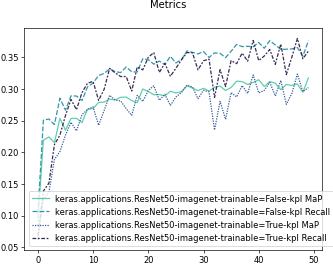
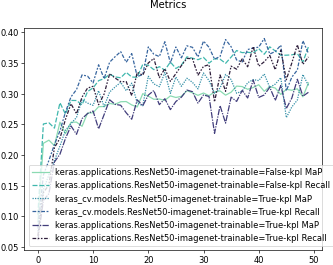
Artifacts/scripts/etc

diff --git a/tasks/pascal_voc2007/scripts/aggregate_results.py b/tasks/pascal_voc2007/scripts/aggregate_results.py
@@ -7,14 +7,13 @@ results = ml_experiments.Result.load_collection("artifacts/")
 
 all_dfs = []
 for result in results:
-    metrics = result.get("metrics")
     history = result.get("history").metrics
     mAP = np.array(history["val_AP"]).max()
     AR = np.array(history["val_ARmax100"]).max()
 
-    cols = [result.name] + [mAP, AR] + list(metrics.metrics.values())
+    cols = [result.name] + [mAP, AR]
     cols = [cols]
-    colheads = ["name"] + ["mAP", "Recall"] + list(metrics.metrics.keys())
+    colheads = ["name"] + ["mAP", "Recall"]
     all_dfs.append(pd.DataFrame(cols, columns=colheads))
 
 df = pd.concat(all_dfs)

diff --git a/tasks/pascal_voc2007/results/metrics.md b/tasks/pascal_voc2007/results/metrics.md
@@ -1,4 +1,5 @@
-|    | name                                                     |      mAP |   Recall |     loss |   box_loss |   classification_loss |   percent_boxes_matched_with_anchor |
-|---:|:---------------------------------------------------------|---------:|---------:|---------:|-----------:|----------------------:|------------------------------------:|
-|  0 | keras.applications.ResNet50-imagenet-trainable=False-kpl | 0.317357 | 0.376279 | 0.504053 |   0.241996 |              0.262057 |                            0.905556 |
-|  0 | keras.applications.ResNet50-imagenet-trainable=True-kpl  | 0.323414 | 0.37968  | 0.58322  |   0.24682  |              0.3364   |                            0.905556 |
+|    | name                                                     |      mAP |   Recall |
+|---:|:---------------------------------------------------------|---------:|---------:|
+|  0 | keras.applications.ResNet50-imagenet-trainable=False-kpl | 0.317357 | 0.376279 |
+|  0 | keras_cv.models.ResNet50-imagenet-trainable=True-kpl     | 0.334446 | 0.389913 |
+|  0 | keras.applications.ResNet50-imagenet-trainable=True-kpl  | 0.323414 | 0.37968  |
